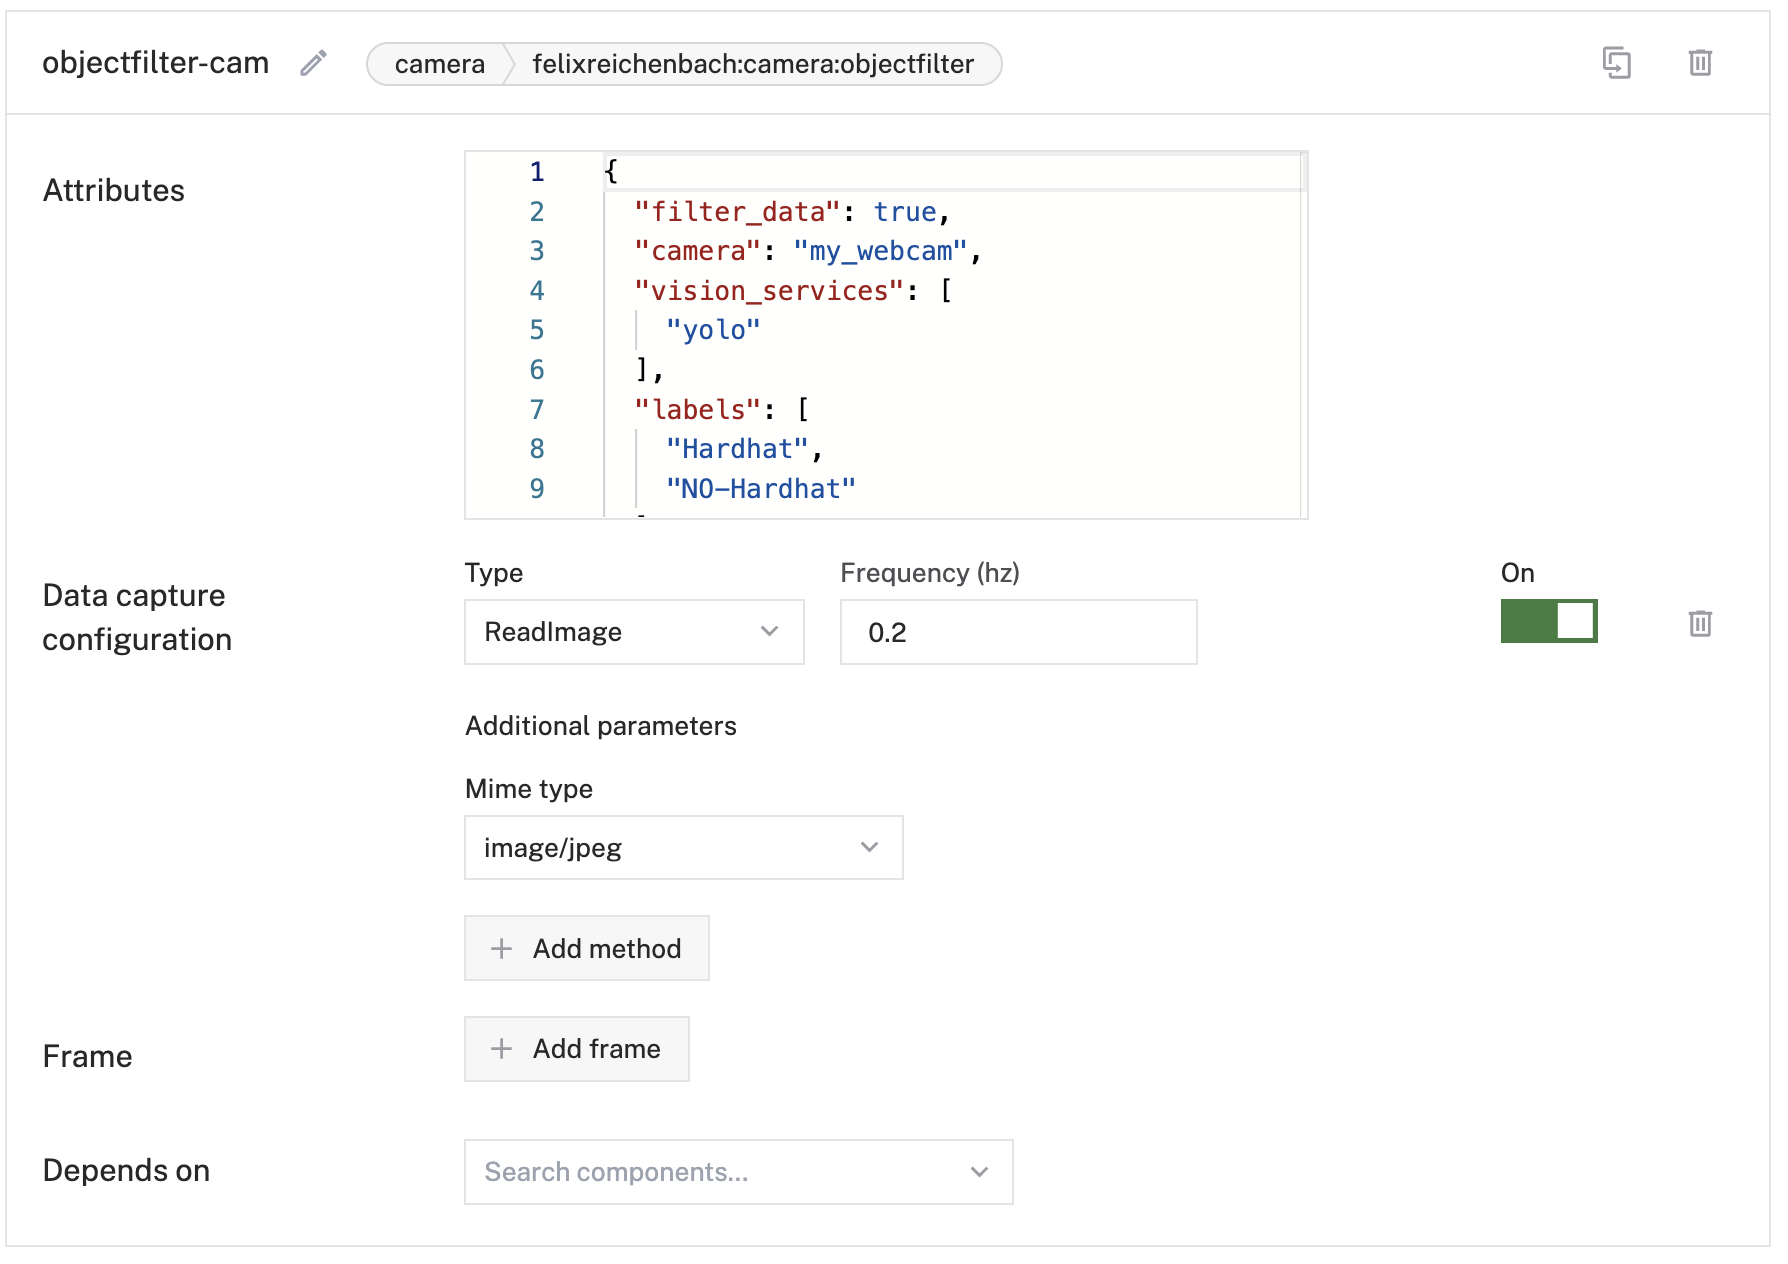
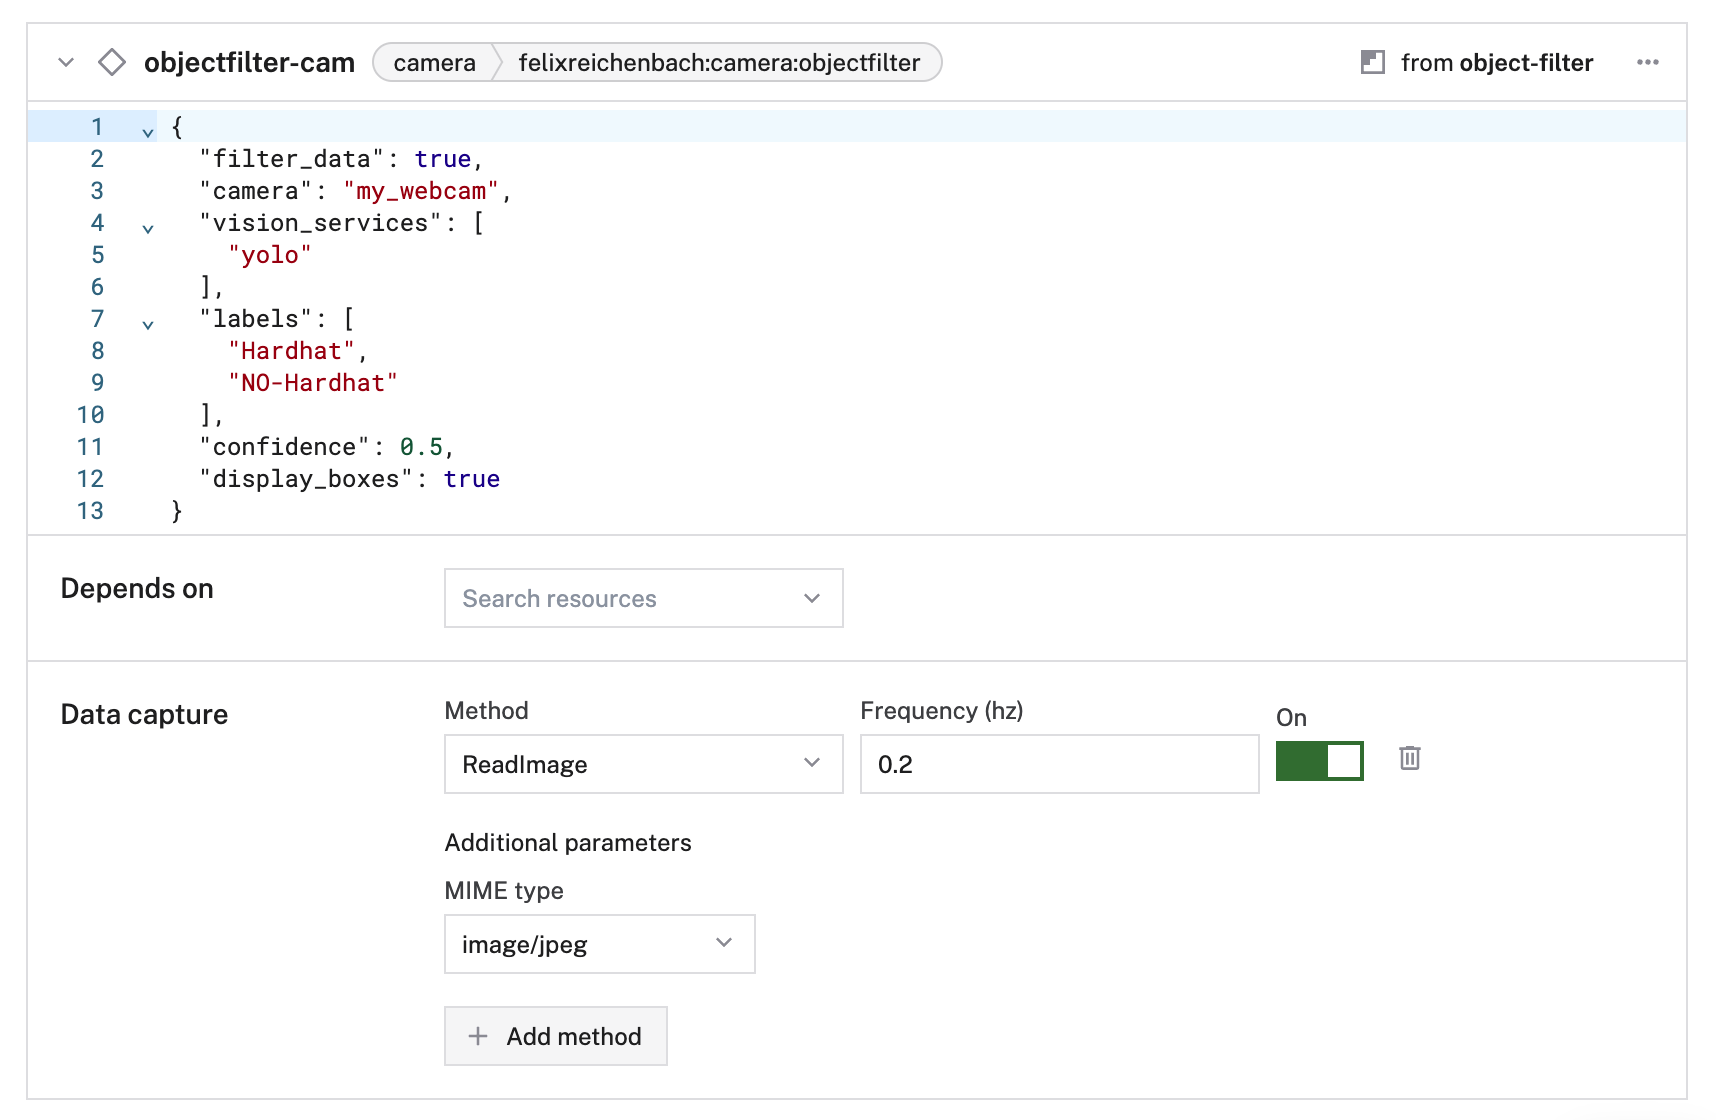
Update helmet tutorial instructions and screenshots

diff --git a/docs/tutorials/projects/helmet.md b/docs/tutorials/projects/helmet.md
@@ -64,7 +64,7 @@ Get your hardware ready and connected to the Viam platform:
 
 2. Make sure your computer (whether it's a personal computer or an SBC) is connected to adequate power, and turn it on.
 
-3. If you haven't already, [create a new machine](/fleet/machines/#add-a-new-machine) in the [Viam app](https://app.viam.com) and follow the instructions to [install `viam-server`](/get-started/installation/) on the computer you're using for this project.
+3. If you haven't already, [create a new machine](/fleet/machines/#add-a-new-machine) in the [Viam app](https://app.viam.com) and follow the instructions to [install `viam-server`](/get-started/installation/), the software you will use to operate your machine, on the computer you're using for this project.
 
 ## Configure the camera and computer vision
 
@@ -73,9 +73,9 @@ Get your hardware ready and connected to the Viam platform:
 Configure your [webcam](/components/camera/webcam/) so that your machine can get the video stream from the camera:
 
 1. On the [Viam app](https://app.viam.com), navigate to your machine's page.
-   Check that the **Last online** indicator reads "Live"; this indicates that your machine is turned on and that its instance of `viam-server` is in contact with the Viam app.
+   Check that the part status dropdown in the upper left of the page, next to your machine's name, reads "Live"; this indicates that your machine is turned on and that its instance of `viam-server` is in contact with the Viam app.
 
-2. Click **Create component** in the lower-left corner of the page.
+2. Click the **+** (Create) button next to your main part in the left-hand menu and select **Component**.
    Start typing "webcam" and select **camera / webcam**.
    Give your camera a name.
    This tutorial uses the name `my_webcam` in all example code.
@@ -83,15 +83,15 @@ Configure your [webcam](/components/camera/webcam/) so that your machine can get
 
 3. Click the **video path** dropdown and select the webcam you'd like to use for this project from the list of suggestions.
 
-4. At the bottom of the screen, click **Save config**.
+4. Click **Save** in the top right corner of the screen to save your changes.
 
 ### Test your physical camera
 
-To test your camera, go to the **Control** tab and click to expand your camera's panel.
+To test your camera, go to the **CONTROL** tab and click to expand your camera's panel.
 
 Toggle **View `my_webcam`** to the "on" position.
 The video feed should display.
-If it doesn't, double-check that your config is saved correctly, and check the **Logs** tab for errors.
+If it doesn't, double-check that your config is saved correctly, and check the **LOGS** tab for errors.
 
 ### Configure the vision service
 
@@ -99,15 +99,15 @@ Now that you know the camera is properly connected to your machine, it is time t
 Viam's built-in [`mlmodel` vision service](/ml/vision/mlmodel/) works with Tensor Flow Lite models, but since this tutorial uses a YOLOv8 model, we will use a {{< glossary_tooltip term_id="module" text="module" >}} from the [modular resource registry](/registry/) that augments Viam with YOLOv8 integration.
 The [YOLOv8 module](https://github.com/viam-labs/YOLOv8) enables you to use any [YOLOv8 model](https://huggingface.co/models?other=yolov8) with your Viam machines.
 
-1. Navigate to the **Services** subtab of your machine's **Config** tab.
+1. Navigate to your machine's **CONFIGURE** tab.
 
-2. Click **Create service**.
+2. Click the **+** (Create) button next to your main part in the left-hand menu and select **Service**.
    Start typing `yolo` and select **vision / yolov8** from the registry options.
    Click **Add module**.
 
 3. Give your vision service a name, for example `yolo`, and click **Create**.
 
-4. In the **Attributes** box of your new vision service, paste the following JSON:
+4. In the attributes box of your new vision service, paste the following JSON:
 
    ```json {class="line-numbers linkable-line-numbers"}
    {
@@ -121,7 +121,7 @@ The [YOLOv8 module](https://github.com/viam-labs/YOLOv8) enables you to use any 
 
    {{<imgproc src="/tutorials/helmet/model-location.png" resize="x1100" declaredimensions=true alt="The vision service configured in the Viam app per the instructions." >}}
 
-5. Click **Save config** at the bottom of the screen.
+5. Click **Save** in the top right corner of the screen to save your changes.
 
 ### Configure the `objectfilter` module
 
@@ -131,10 +131,11 @@ This module takes a vision service (in this case, your hard hat detector) and ap
 It outputs a stream with bounding boxes around the hard hats (and people without hard hats) in your camera's view so that you can see the detector working.
 This module also filters the output so that later, when you configure data management, you can save only the images that contain people without hard hats rather than all images the camera captures.
 
-1. Navigate to the **Components** subtab of your machine's **Config** tab.
+1. Navigate to your machine's **CONFIGURE** tab.
 
-2. Click **Create component**.
+2. Click the **+** (Create) button next to your main part in the left-hand menu and select **Component**.
    Start typing `objectfilter` and select **camera / objectfilter** from the results.
+   Click **Add module**.
 
 3. Name your filtering camera something like `objectfilter-cam` and click **Create**.
 
@@ -163,13 +164,13 @@ This module also filters the output so that later, when you configure data manag
 
    {{<imgproc src="/tutorials/helmet/filtercam-config.png" resize="x1100" declaredimensions=true alt="The detector_cam config panel in the Viam app." >}}
 
-5. Click **Save config** at the bottom of the screen.
+5. Click **Save** in the top right corner of the screen to save your changes.
 
 ### Test the detector
 
 Now that the detector is configured, it's time to test it!
 
-1. Navigate to the **Control** tab.
+1. Navigate to the **CONTROL** tab.
 
 2. Click the **objectfilter_cam** panel to open your detector camera controls.
 
@@ -189,22 +190,22 @@ Configure data capture on the `objectfilter` camera to capture images of people 
 
 1. First, you need to add the data service to your machine to make it available to capture data on your camera.
 
-   Navigate to the **Services** subtab of your machine's **Config** tab.
+   Navigate to tyour machine's **CONFIGURE** tab.
 
-   Click **Create service**.
+   Click the **+** (Create) button next to your main part in the left-hand menu and select **Service**.
    Type "data" and click **data management / RDK**.
    Name your data management service `data-manager` and click **Create**.
 
-   Leave all the default data service attributes as they are and click **Save config**.
+   Leave all the default data service attributes as they are and click **Save** in the top right corner of the screen to save your changes.
 
 2. Now you're ready to enable data capture on your detector camera.
-   Navigate to the **Components** subtab.
    Locate the `objectfilter-cam` panel.
 
 3. Click **Add method**.
    Click the **Type** dropdown and select **ReadImage**.
    Set the capture frequency to `0.2` images per second (equivalent to one image every 5 seconds).
    You can always change the frequency to suit your use case.
+   Leave **MIME type** at the default `image/jpeg`.
 
    {{<imgproc src="/tutorials/helmet/datacapture-config.png" resize="x1100" declaredimensions=true alt="The objectfilter cam configured with data capture set to read images at 0.2 hertz. Mime type is left at the default image/jpeg." >}}
 
@@ -229,11 +230,11 @@ To make sure the detector camera is capturing and syncing labeled images:
 Until now, you've been identifying people without hard hats as well as people with hard hats.
 Now that you have verified that the detector and data sync are working, modify your config so that only images with people _without_ hard hats are captured:
 
-1. Navigate to your `objectfilter-cam` card on the **Config** tab.
+1. Navigate to your `objectfilter-cam` card on the **CONFIGURE** tab.
 
 2. Delete the `"Hardhat",` line from the `"labels"` array.
 
-3. Click **Save config**.
+3. Click **Save** in the top right corner of the screen to save your changes.
 
 ## Set up email notifications
 
@@ -405,10 +406,10 @@ Since you configured data to sync only when an image of a person without a hard 
 
 Configure a webhook as follows:
 
-1. Navigate to the **Config** tab of your machine.
-   Toggle the **Mode** to **Raw JSON**.
+1. Navigate to the **CONFIGURE** tab of your machine.
+   Select **JSON** mode in the left-hand menu.
 
-2. Paste the following JSON template into your raw JSON config.
+2. Paste the following JSON template into your JSON config.
    `"webhooks"` is a top-level section like `"components"`, `"services"`, or any of the other config sections.
 
    ```json {class="line-numbers linkable-line-numbers"}
@@ -429,7 +430,7 @@ Configure a webhook as follows:
    You can get this URL by copying it from the **TRIGGER** tab in the cloud function console.
    Once you've done this, the `url` line should resemble, for example, `"url": "https://us-east1-example-string-123456.cloudfunctions.net/hat-email"`.
 
-4. Click **Save config**.
+4. Click **Save** in the top right corner of the screen to save your changes.
 
 ## Test the whole system
 
